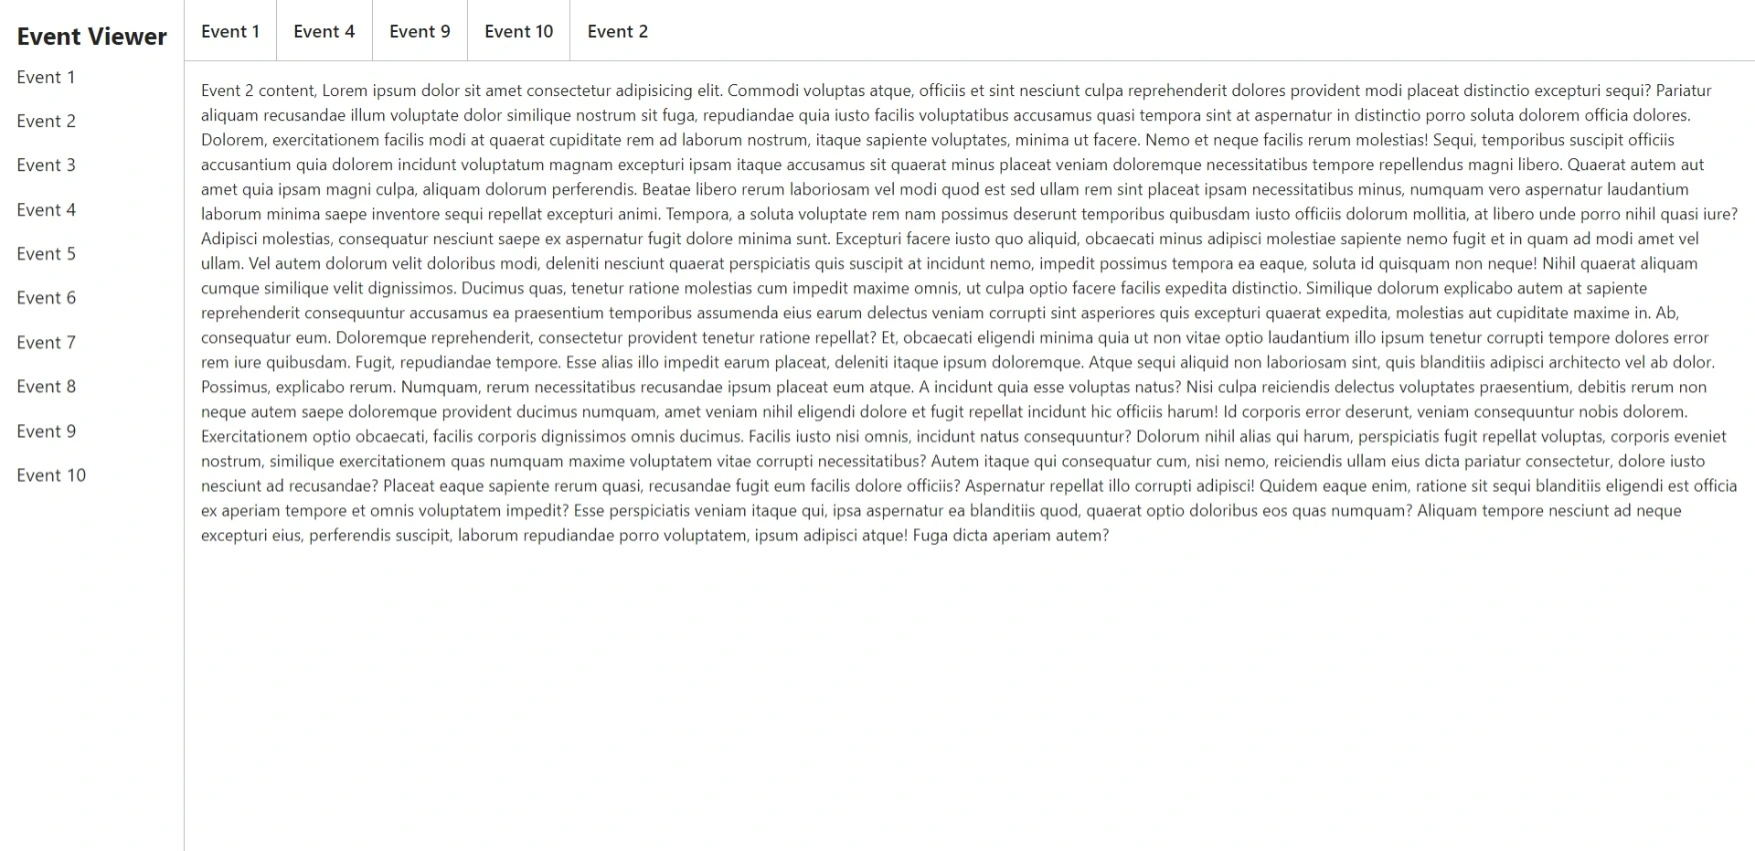
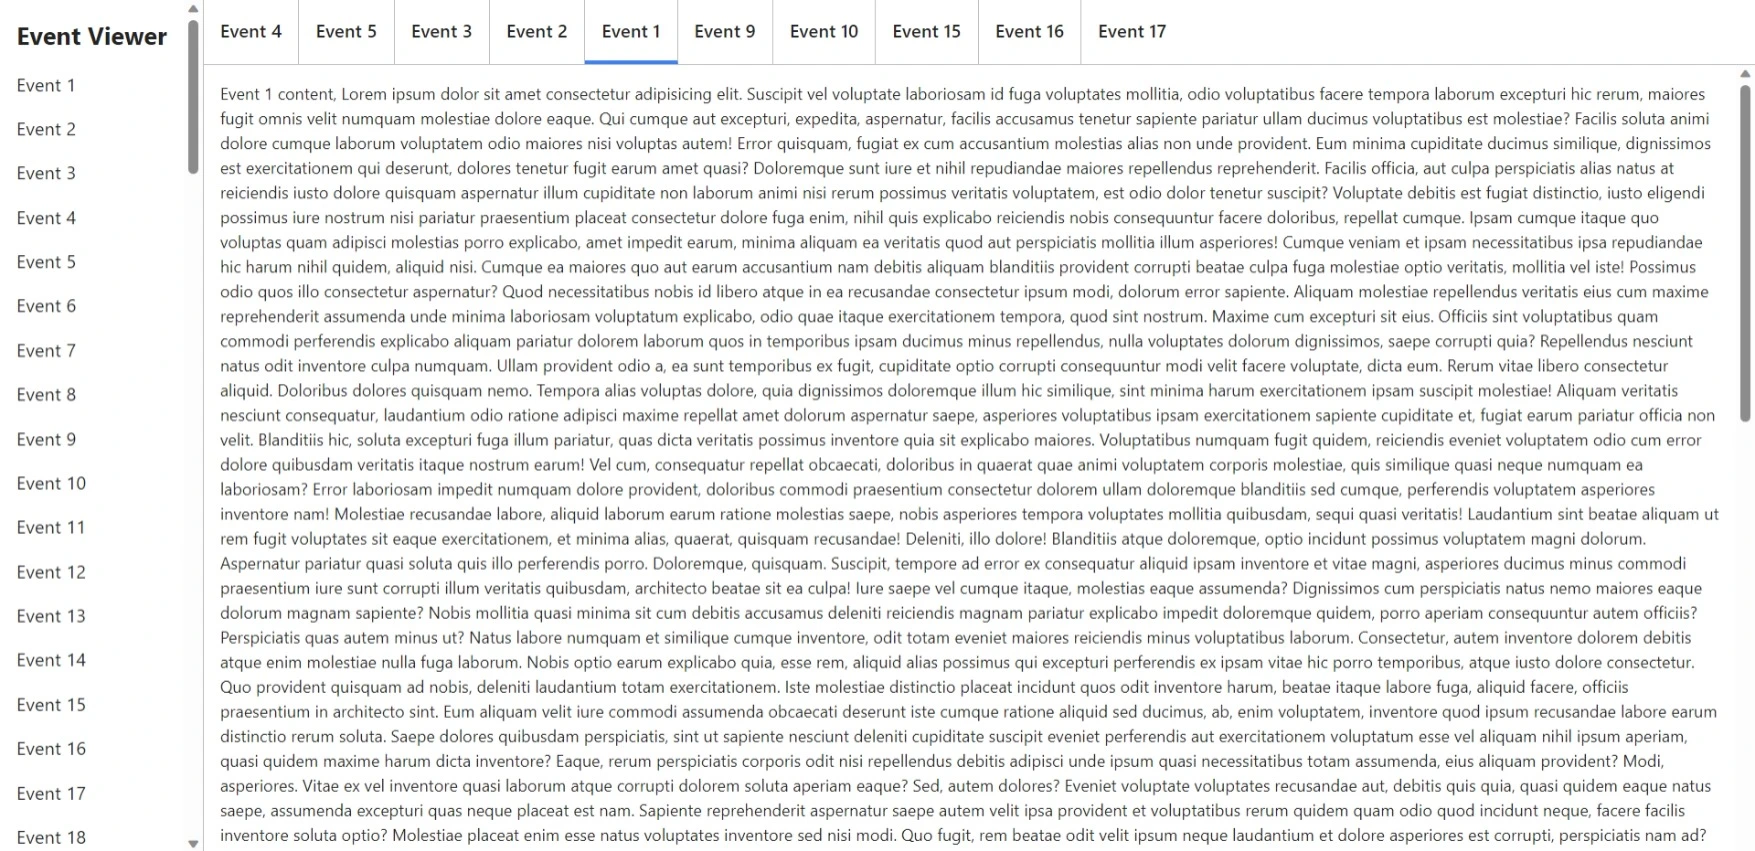
Update

diff --git a/src/components/aside.tsx b/src/components/aside.tsx
@@ -43,10 +43,10 @@ const Aside = () => {
     );
   };
   return (
-    <aside className="w-max p-4 border-r h-screen overflow-y-auto whitespace-nowrap min-w-fit">
-      <h2 className="w-max mb-2">Event Viewer</h2>
+    <aside className="w-max p-4 pt-0 border-r h-screen overflow-y-auto overflow-x-hidden whitespace-nowrap min-w-fit">
+      <h2 className="w-max py-4 sticky top-0 bg-white">Event Viewer</h2>
       <ul className="flex flex-col gap-4 list-none">
-        {Array.from({ length: 10 }, (_, i) => (
+        {Array.from({ length: 100 }, (_, i) => (
           <li
             key={i}
             onClick={() => handleClick(i + 1)}
@@ -63,5 +63,5 @@ const Aside = () => {
 export default Aside;
 
 const getContent = (index: number) => {
-  return `Event ${index} content, Lorem ipsum dolor sit amet consectetur adipisicing elit. Commodi voluptas atque, officiis et sint nesciunt culpa reprehenderit dolores provident modi placeat distinctio excepturi sequi? Pariatur aliquam recusandae illum voluptate dolor similique nostrum sit fuga, repudiandae quia iusto facilis voluptatibus accusamus quasi tempora sint at aspernatur in distinctio porro soluta dolorem officia dolores. Dolorem, exercitationem facilis modi at quaerat cupiditate rem ad laborum nostrum, itaque sapiente voluptates, minima ut facere. Nemo et neque facilis rerum molestias! Sequi, temporibus suscipit officiis accusantium quia dolorem incidunt voluptatum magnam excepturi ipsam itaque accusamus sit quaerat minus placeat veniam doloremque necessitatibus tempore repellendus magni libero. Quaerat autem aut amet quia ipsam magni culpa, aliquam dolorum perferendis. Beatae libero rerum laboriosam vel modi quod est sed ullam rem sint placeat ipsam necessitatibus minus, numquam vero aspernatur laudantium laborum minima saepe inventore sequi repellat excepturi animi. Tempora, a soluta voluptate rem nam possimus deserunt temporibus quibusdam iusto officiis dolorum mollitia, at libero unde porro nihil quasi iure? Adipisci molestias, consequatur nesciunt saepe ex aspernatur fugit dolore minima sunt. Excepturi facere iusto quo aliquid, obcaecati minus adipisci molestiae sapiente nemo fugit et in quam ad modi amet vel ullam. Vel autem dolorum velit doloribus modi, deleniti nesciunt quaerat perspiciatis quis suscipit at incidunt nemo, impedit possimus tempora ea eaque, soluta id quisquam non neque! Nihil quaerat aliquam cumque similique velit dignissimos. Ducimus quas, tenetur ratione molestias cum impedit maxime omnis, ut culpa optio facere facilis expedita distinctio. Similique dolorum explicabo autem at sapiente reprehenderit consequuntur accusamus ea praesentium temporibus assumenda eius earum delectus veniam corrupti sint asperiores quis excepturi quaerat expedita, molestias aut cupiditate maxime in. Ab, consequatur eum. Doloremque reprehenderit, consectetur provident tenetur ratione repellat? Et, obcaecati eligendi minima quia ut non vitae optio laudantium illo ipsum tenetur corrupti tempore dolores error rem iure quibusdam. Fugit, repudiandae tempore. Esse alias illo impedit earum placeat, deleniti itaque ipsum doloremque. Atque sequi aliquid non laboriosam sint, quis blanditiis adipisci architecto vel ab dolor. Possimus, explicabo rerum. Numquam, rerum necessitatibus recusandae ipsum placeat eum atque. A incidunt quia esse voluptas natus? Nisi culpa reiciendis delectus voluptates praesentium, debitis rerum non neque autem saepe doloremque provident ducimus numquam, amet veniam nihil eligendi dolore et fugit repellat incidunt hic officiis harum! Id corporis error deserunt, veniam consequuntur nobis dolorem. Exercitationem optio obcaecati, facilis corporis dignissimos omnis ducimus. Facilis iusto nisi omnis, incidunt natus consequuntur? Dolorum nihil alias qui harum, perspiciatis fugit repellat voluptas, corporis eveniet nostrum, similique exercitationem quas numquam maxime voluptatem vitae corrupti necessitatibus? Autem itaque qui consequatur cum, nisi nemo, reiciendis ullam eius dicta pariatur consectetur, dolore iusto nesciunt ad recusandae? Placeat eaque sapiente rerum quasi, recusandae fugit eum facilis dolore officiis? Aspernatur repellat illo corrupti adipisci! Quidem eaque enim, ratione sit sequi blanditiis eligendi est officia ex aperiam tempore et omnis voluptatem impedit? Esse perspiciatis veniam itaque qui, ipsa aspernatur ea blanditiis quod, quaerat optio doloribus eos quas numquam? Aliquam tempore nesciunt ad neque excepturi eius, perferendis suscipit, laborum repudiandae porro voluptatem, ipsum adipisci atque! Fuga dicta aperiam autem?`;
+  return `Event ${index} content, Lorem ipsum dolor sit amet consectetur adipisicing elit. Suscipit vel voluptate laboriosam id fuga voluptates mollitia, odio voluptatibus facere tempora laborum excepturi hic rerum, maiores fugit omnis velit numquam molestiae dolore eaque. Qui cumque aut excepturi, expedita, aspernatur, facilis accusamus tenetur sapiente pariatur ullam ducimus voluptatibus est molestiae? Facilis soluta animi dolore cumque laborum voluptatem odio maiores nisi voluptas autem! Error quisquam, fugiat ex cum accusantium molestias alias non unde provident. Eum minima cupiditate ducimus similique, dignissimos est exercitationem qui deserunt, dolores tenetur fugit earum amet quasi? Doloremque sunt iure et nihil repudiandae maiores repellendus reprehenderit. Facilis officia, aut culpa perspiciatis alias natus at reiciendis iusto dolore quisquam aspernatur illum cupiditate non laborum animi nisi rerum possimus veritatis voluptatem, est odio dolor tenetur suscipit? Voluptate debitis est fugiat distinctio, iusto eligendi possimus iure nostrum nisi pariatur praesentium placeat consectetur dolore fuga enim, nihil quis explicabo reiciendis nobis consequuntur facere doloribus, repellat cumque. Ipsam cumque itaque quo voluptas quam adipisci molestias porro explicabo, amet impedit earum, minima aliquam ea veritatis quod aut perspiciatis mollitia illum asperiores! Cumque veniam et ipsam necessitatibus ipsa repudiandae hic harum nihil quidem, aliquid nisi. Cumque ea maiores quo aut earum accusantium nam debitis aliquam blanditiis provident corrupti beatae culpa fuga molestiae optio veritatis, mollitia vel iste! Possimus odio quos illo consectetur aspernatur? Quod necessitatibus nobis id libero atque in ea recusandae consectetur ipsum modi, dolorum error sapiente. Aliquam molestiae repellendus veritatis eius cum maxime reprehenderit assumenda unde minima laboriosam voluptatum explicabo, odio quae itaque exercitationem tempora, quod sint nostrum. Maxime cum excepturi sit eius. Officiis sint voluptatibus quam commodi perferendis explicabo aliquam pariatur dolorem laborum quos in temporibus ipsam ducimus minus repellendus, nulla voluptates dolorum dignissimos, saepe corrupti quia? Repellendus nesciunt natus odit inventore culpa numquam. Ullam provident odio a, ea sunt temporibus ex fugit, cupiditate optio corrupti consequuntur modi velit facere voluptate, dicta eum. Rerum vitae libero consectetur aliquid. Doloribus dolores quisquam nemo. Tempora alias voluptas dolore, quia dignissimos doloremque illum hic similique, sint minima harum exercitationem ipsam suscipit molestiae! Aliquam veritatis nesciunt consequatur, laudantium odio ratione adipisci maxime repellat amet dolorum aspernatur saepe, asperiores voluptatibus ipsam exercitationem sapiente cupiditate et, fugiat earum pariatur officia non velit. Blanditiis hic, soluta excepturi fuga illum pariatur, quas dicta veritatis possimus inventore quia sit explicabo maiores. Voluptatibus numquam fugit quidem, reiciendis eveniet voluptatem odio cum error dolore quibusdam veritatis itaque nostrum earum! Vel cum, consequatur repellat obcaecati, doloribus in quaerat quae animi voluptatem corporis molestiae, quis similique quasi neque numquam ea laboriosam? Error laboriosam impedit numquam dolore provident, doloribus commodi praesentium consectetur dolorem ullam doloremque blanditiis sed cumque, perferendis voluptatem asperiores inventore nam! Molestiae recusandae labore, aliquid laborum earum ratione molestias saepe, nobis asperiores tempora voluptates mollitia quibusdam, sequi quasi veritatis! Laudantium sint beatae aliquam ut rem fugit voluptates sit eaque exercitationem, et minima alias, quaerat, quisquam recusandae! Deleniti, illo dolore! Blanditiis atque doloremque, optio incidunt possimus voluptatem magni dolorum. Aspernatur pariatur quasi soluta quis illo perferendis porro. Doloremque, quisquam. Suscipit, tempore ad error ex consequatur aliquid ipsam inventore et vitae magni, asperiores ducimus minus commodi praesentium iure sunt corrupti illum veritatis quibusdam, architecto beatae sit ea culpa! Iure saepe vel cumque itaque, molestias eaque assumenda? Dignissimos cum perspiciatis natus nemo maiores eaque dolorum magnam sapiente? Nobis mollitia quasi minima sit cum debitis accusamus deleniti reiciendis magnam pariatur explicabo impedit doloremque quidem, porro aperiam consequuntur autem officiis? Perspiciatis quas autem minus ut? Natus labore numquam et similique cumque inventore, odit totam eveniet maiores reiciendis minus voluptatibus laborum. Consectetur, autem inventore dolorem debitis atque enim molestiae nulla fuga laborum. Nobis optio earum explicabo quia, esse rem, aliquid alias possimus qui excepturi perferendis ex ipsam vitae hic porro temporibus, atque iusto dolore consectetur. Quo provident quisquam ad nobis, deleniti laudantium totam exercitationem. Iste molestiae distinctio placeat incidunt quos odit inventore harum, beatae itaque labore fuga, aliquid facere, officiis praesentium in architecto sint. Eum aliquam velit iure commodi assumenda obcaecati deserunt iste cumque ratione aliquid sed ducimus, ab, enim voluptatem, inventore quod ipsum recusandae labore earum distinctio rerum soluta. Saepe dolores quibusdam perspiciatis, sint ut sapiente nesciunt deleniti cupiditate suscipit eveniet perferendis aut exercitationem voluptatum esse vel aliquam nihil ipsum aperiam, quasi quidem maxime harum dicta inventore? Eaque, rerum perspiciatis corporis odit nisi repellendus debitis adipisci unde ipsum quasi necessitatibus totam assumenda, eius aliquam provident? Modi, asperiores. Vitae ex vel inventore quasi laborum atque corrupti dolorem soluta aperiam eaque? Sed, autem dolores? Eveniet voluptate voluptates recusandae aut, debitis quis quia, quasi quidem eaque natus saepe, assumenda excepturi quas neque placeat est nam. Sapiente reprehenderit aspernatur saepe autem velit ipsa provident et voluptatibus rerum quidem quam odio quod incidunt neque, facere facilis inventore soluta optio? Molestiae placeat enim esse natus voluptates inventore sed nisi modi. Quo fugit, rem beatae odit velit ipsum neque laudantium et dolore asperiores est corrupti, perspiciatis nam ad? Labore officiis expedita illum rerum, adipisci doloribus quibusdam nihil dolore ea magni a, dolor praesentium sint at itaque eos saepe deleniti rem nisi! Veniam, nemo ipsam nesciunt omnis fugit delectus, placeat maiores sapiente temporibus earum veritatis inventore accusamus accusantium est! Illo eligendi optio distinctio quisquam corrupti ipsum provident ullam ea impedit, esse amet similique dolorem repellat fugit nulla qui natus, autem totam in pariatur quia! Perferendis architecto, modi, eum repellat hic, ducimus iste sed consectetur fugit pariatur distinctio nihil nobis molestias ipsa exercitationem tempora nemo optio consequuntur quos? Nobis consequatur voluptatum error autem iste, blanditiis quod esse exercitationem nisi fugit incidunt assumenda, id ad? Quas debitis iste consectetur, corrupti, atque laudantium accusamus nesciunt quisquam excepturi ab animi, quod tempore quibusdam impedit voluptatibus deserunt. Deserunt dignissimos necessitatibus expedita maiores deleniti iste nostrum facere alias. Soluta, quisquam necessitatibus sunt corporis architecto consectetur! Quos totam quisquam vero a ipsam aspernatur similique debitis! Odio ducimus ratione sapiente! Nihil laboriosam corporis ipsum dolores qui. Eius, accusamus ratione aperiam, harum officia debitis, praesentium ex reprehenderit at ea quos aliquam? Rem, ut non. Harum eaque rem quasi earum exercitationem illo doloribus accusantium facilis, minima praesentium atque quisquam consectetur eos. Officia maiores quam unde autem animi laboriosam corrupti, error quos quasi laudantium ad accusantium. Nobis assumenda in quos, totam rerum architecto cupiditate ducimus autem voluptatem! Repellendus labore deleniti vel unde veniam quam voluptate alias! Velit consequuntur asperiores molestias, veniam, assumenda nam repellendus dolore aliquam perferendis in quos porro atque ex ipsa accusantium laboriosam dolor aliquid nemo laborum dignissimos. Soluta vero facilis aspernatur modi est voluptate. Sunt autem praesentium libero dolorum aperiam! Consequuntur ipsum beatae necessitatibus placeat explicabo voluptatem corporis earum magni dignissimos, quo culpa ea sunt. Sapiente voluptate mollitia fuga aliquid voluptas. Recusandae suscipit maiores quam quis esse ad est iste veritatis dolorum perferendis tempora ut voluptatum vel, soluta neque nam eveniet obcaecati sed quas, quo mollitia commodi eos placeat. Maiores possimus saepe perspiciatis, distinctio, aut excepturi cupiditate exercitationem labore, dolorum ducimus velit dolores explicabo nemo magni obcaecati blanditiis facere dicta et corrupti vitae porro reiciendis est aspernatur? Minus et sit veniam accusantium eligendi, aspernatur aliquam voluptatibus quibusdam ut repellat, laboriosam deleniti a cupiditate in optio debitis nesciunt, excepturi culpa cumque! Et libero doloribus eum veniam reiciendis a sapiente harum? Aliquid velit ipsam sit fugiat ad delectus odit nam. Iste, reprehenderit quia aliquid accusamus delectus maiores. Minus quos unde repudiandae nobis nam reprehenderit ipsa at velit laboriosam temporibus veniam voluptatibus praesentium nemo animi dolorum possimus, optio doloremque perferendis dolores eum impedit architecto! Deleniti, ut eum. Mollitia ipsum animi recusandae praesentium aliquid fugiat. Quo temporibus error dignissimos, omnis amet voluptates minus? Velit praesentium amet asperiores illo atque debitis, suscipit, natus sunt non ipsam enim obcaecati magnam architecto recusandae cum itaque rerum minus, quasi facilis quos excepturi libero aliquam ratione. Illum quidem, tempore debitis modi veritatis repellendus maiores, nam voluptatibus animi sint laboriosam molestiae asperiores numquam repellat eius recusandae dicta odio aliquid, ipsum soluta voluptate? Hic laudantium, magnam atque, omnis velit reprehenderit dolorum nobis voluptate excepturi cupiditate earum laborum quasi illo distinctio, vero possimus laboriosam quod voluptatibus incidunt! Minus reiciendis at ea odit dolorem quod nam nemo quidem vero similique alias doloribus, mollitia aliquid accusantium tempore assumenda quo obcaecati fugiat laborum, deleniti labore. Officiis, consectetur sunt! Aut culpa, eius asperiores sint reiciendis officia corporis labore animi ex nobis assumenda similique numquam minus, facere laboriosam architecto ullam ea distinctio necessitatibus unde? Quia quibusdam expedita odio cumque necessitatibus eius itaque molestiae ratione debitis, repellendus eligendi veniam voluptate ipsam exercitationem laudantium, fugiat reprehenderit, aperiam doloremque tempora! Maxime quas molestiae voluptatum ducimus aliquam eum, iusto necessitatibus porro accusamus omnis nemo quibusdam quaerat non eveniet perspiciatis suscipit cum magnam id provident ut! Sequi tenetur natus at, ad quasi quibusdam deleniti voluptas earum praesentium minima aliquid est itaque assumenda nisi fugiat laboriosam provident dignissimos ea recusandae exercitationem. Debitis qui non omnis molestias dolorem excepturi iure, impedit itaque, deserunt cupiditate esse. Sit itaque, minus qui ipsa pariatur voluptatem suscipit quae in ratione accusamus adipisci corporis facere voluptatibus unde, possimus nisi necessitatibus tenetur libero perspiciatis hic praesentium maxime corrupti doloribus non. Sequi id ipsam tempore blanditiis perspiciatis ratione labore eum illum, excepturi, error suscipit aspernatur porro nobis praesentium omnis voluptates molestiae quam modi hic! Nemo odio, non rerum asperiores rem quidem, optio ipsam repudiandae pariatur nesciunt consequatur earum culpa repellat eos quae fuga at vitae! Error, voluptatem dolores! Perspiciatis deleniti labore vitae et est libero fugit soluta, nesciunt ipsam, natus doloremque magni dolores! Error debitis voluptate alias repellendus a dolores praesentium assumenda, dicta soluta at quo vero, dolore natus labore sapiente sunt optio veniam numquam voluptatem qui ipsam sed placeat nulla. Dolore in harum neque libero labore, optio ut ipsum ullam sint? Officia ratione commodi sequi quasi fuga error velit veniam dolorem praesentium repudiandae. Libero molestias quaerat itaque dicta labore, laboriosam, nulla voluptates commodi ab unde possimus dolor accusamus laudantium alias sit eum? Doloremque voluptatum ex harum alias sequi aliquam, nisi tempora labore expedita id temporibus nihil at dolor explicabo, magnam molestias placeat cupiditate. Cum, tempora tenetur. Eveniet officiis cupiditate, vero quisquam, architecto, facilis voluptate vel voluptas recusandae nulla expedita inventore ullam nemo fugit rerum at impedit distinctio voluptatum. Adipisci aut, distinctio ratione voluptate impedit inventore sequi et excepturi placeat? Possimus officia natus, sequi rem deleniti placeat cupiditate aliquam corporis? Sit esse provident iure quod dicta dolorem facilis non minus adipisci? Possimus consequatur omnis quaerat dignissimos iusto, reprehenderit perspiciatis alias odio praesentium ad excepturi cum quod, error ipsa exercitationem corporis eligendi debitis quam aliquam nostrum fugiat veritatis cupiditate quibusdam beatae! Quam alias reiciendis voluptates ratione necessitatibus incidunt dignissimos, odio consequuntur nostrum ad delectus a itaque enim! Ullam et aliquam quibusdam accusamus molestias, quos cumque! Placeat, accusamus quis! Nisi, pariatur aspernatur! Quae mollitia dolor impedit ipsa voluptatem rerum dolore. Amet esse hic repellendus tempora dolorum, molestias mollitia eveniet incidunt? Ipsam ipsum aspernatur reiciendis culpa commodi nobis magni tenetur earum, aperiam doloribus autem, numquam illum cum. Omnis quaerat perspiciatis id quisquam nobis accusantium saepe blanditiis vero labore! Voluptate placeat in ullam sapiente, velit voluptatem quas fugit quidem dolorum, distinctio, illo libero hic aut quam! Totam, quis. Ex, qui! Enim placeat veritatis ea error accusamus culpa assumenda recusandae quam, nulla maxime minima sapiente sint, libero inventore hic quaerat deleniti iste modi repellendus porro voluptate sed velit adipisci? Maxime, eos officiis eaque ipsa veniam delectus libero vitae placeat, debitis perferendis atque quibusdam id iste tenetur ea reiciendis quaerat ad nam laborum nulla? Harum, ea dignissimos error quidem fugiat atque? Id odio sapiente, eligendi deleniti perspiciatis magni consectetur temporibus molestias delectus perferendis, ratione assumenda mollitia provident commodi vero! Consequatur doloremque enim, iure impedit voluptatum eos illum beatae placeat odio nam, facilis voluptates, accusantium debitis quaerat quasi. Sapiente, voluptatem! Eius tempore consectetur, dolorum omnis officia quo dolores hic animi, ullam, beatae sint? Totam quam corrupti aut in dolorem. Vel aut velit reprehenderit cumque illo, omnis expedita eius reiciendis impedit corporis. Molestiae culpa rem nulla cupiditate magnam deserunt corporis consequatur laborum repellendus dolor sequi accusamus amet, ullam soluta voluptas molestias eveniet? Vel beatae fugiat ex numquam dolores cumque obcaecati quasi, maxime eum ipsa incidunt, recusandae voluptatibus aliquam ducimus. Dolor natus voluptas qui enim dolores aut laudantium magni molestiae voluptate repellendus architecto debitis eius nesciunt quaerat placeat quia ullam porro suscipit, repellat distinctio quibusdam sed cupiditate.`;
 };

diff --git a/src/components/tabs.tsx b/src/components/tabs.tsx
@@ -7,6 +7,9 @@ import { type Tab } from "../types/tab";
 const Tabs = () => {
   const dispatch = useDispatch<AppDispatch>();
   const tabs: Tab[] = useAppSelector((state) => state.tabReducer.tabs);
+  const activeTab: Tab | null = useAppSelector(
+    (state) => state.tabReducer.activeTab
+  );
   const handleClick = (
     event: React.MouseEvent<HTMLAnchorElement, MouseEvent>,
     tab: Tab
@@ -15,13 +18,18 @@ const Tabs = () => {
     dispatch(setActiveTab(tab));
   };
   return (
-    <ul className="tabs flex list-none border-b sticky top-0 bg-white border-between">
+    <ul className="tabs flex list-none border-b sticky top-0 bg-white border-between w-full overflow-x-auto">
       {tabs?.map((tab, index) => (
-        <li key={index}>
+        <li
+          key={index}
+          className={
+            activeTab?.id === tab.id ? "border-b-4 border-blue-500" : ""
+          }
+        >
           <a
             href={`#${tab.id}`}
             onClick={(event) => handleClick(event, tab)}
-            className="p-4 inline-block font-semibold text-lg"
+            className="p-4 inline-block font-semibold text-lg whitespace-nowrap"
           >
             {tab.tabName}
           </a>

diff --git a/src/App.css b/src/App.css
@@ -39,8 +39,12 @@ a {
   padding-block: 1rem;
 }
 
-.mb-2 {
-  margin-bottom: 0.5rem;
+.pt-0 {
+  padding-block-start: 0;
+}
+
+.mb-24 {
+  margin-block-end: 6rem;
 }
 
 .inline-block {
@@ -63,8 +67,39 @@ a {
   border-bottom: 1px solid rgba(0, 0, 0, 0.25);
 }
 
+.border-b-4 {
+  border-top: none;
+  border-right: none;
+  border-left: none;
+  border-bottom: 4px solid;
+}
+
+.border-blue-500 {
+  border-color: rgb(59, 130, 246);
+}
+
+.h-full {
+  height: 100%;
+}
+
 .h-screen {
   height: 100vh;
+}
+
+.w-full {
+  width: 100%;
+}
+
+.overflow-hidden {
+  overflow: hidden;
+}
+
+.overflow-x-hidden {
+  overflow-x: hidden;
+}
+
+.overflow-x-auto {
+  overflow-x: auto;
 }
 
 .overflow-y-auto {

diff --git a/src/components/tabContent.tsx b/src/components/tabContent.tsx
@@ -6,10 +6,10 @@ const TabContent = () => {
     (state) => state.tabReducer.activeTab
   );
   return (
-    <div className="tabs__panels p-4">
+    <div className="tabs__panels p-4 h-full overflow-y-auto">
       {activeTab && (
         <div className="tabs__panel" key={activeTab.id} id={activeTab.id}>
-          <p>{activeTab.tabContent}</p>
+          <p className="mb-24">{activeTab.tabContent}</p>
         </div>
       )}
     </div>

diff --git a/src/App.tsx b/src/App.tsx
@@ -7,7 +7,7 @@ const App = () => {
   return (
     <div className="app flex">
       <Aside />
-      <div className="right-side h-screen overflow-y-auto">
+      <div className="right-side h-screen overflow-hidden">
         <Tabs />
         <TabContent />
       </div>
